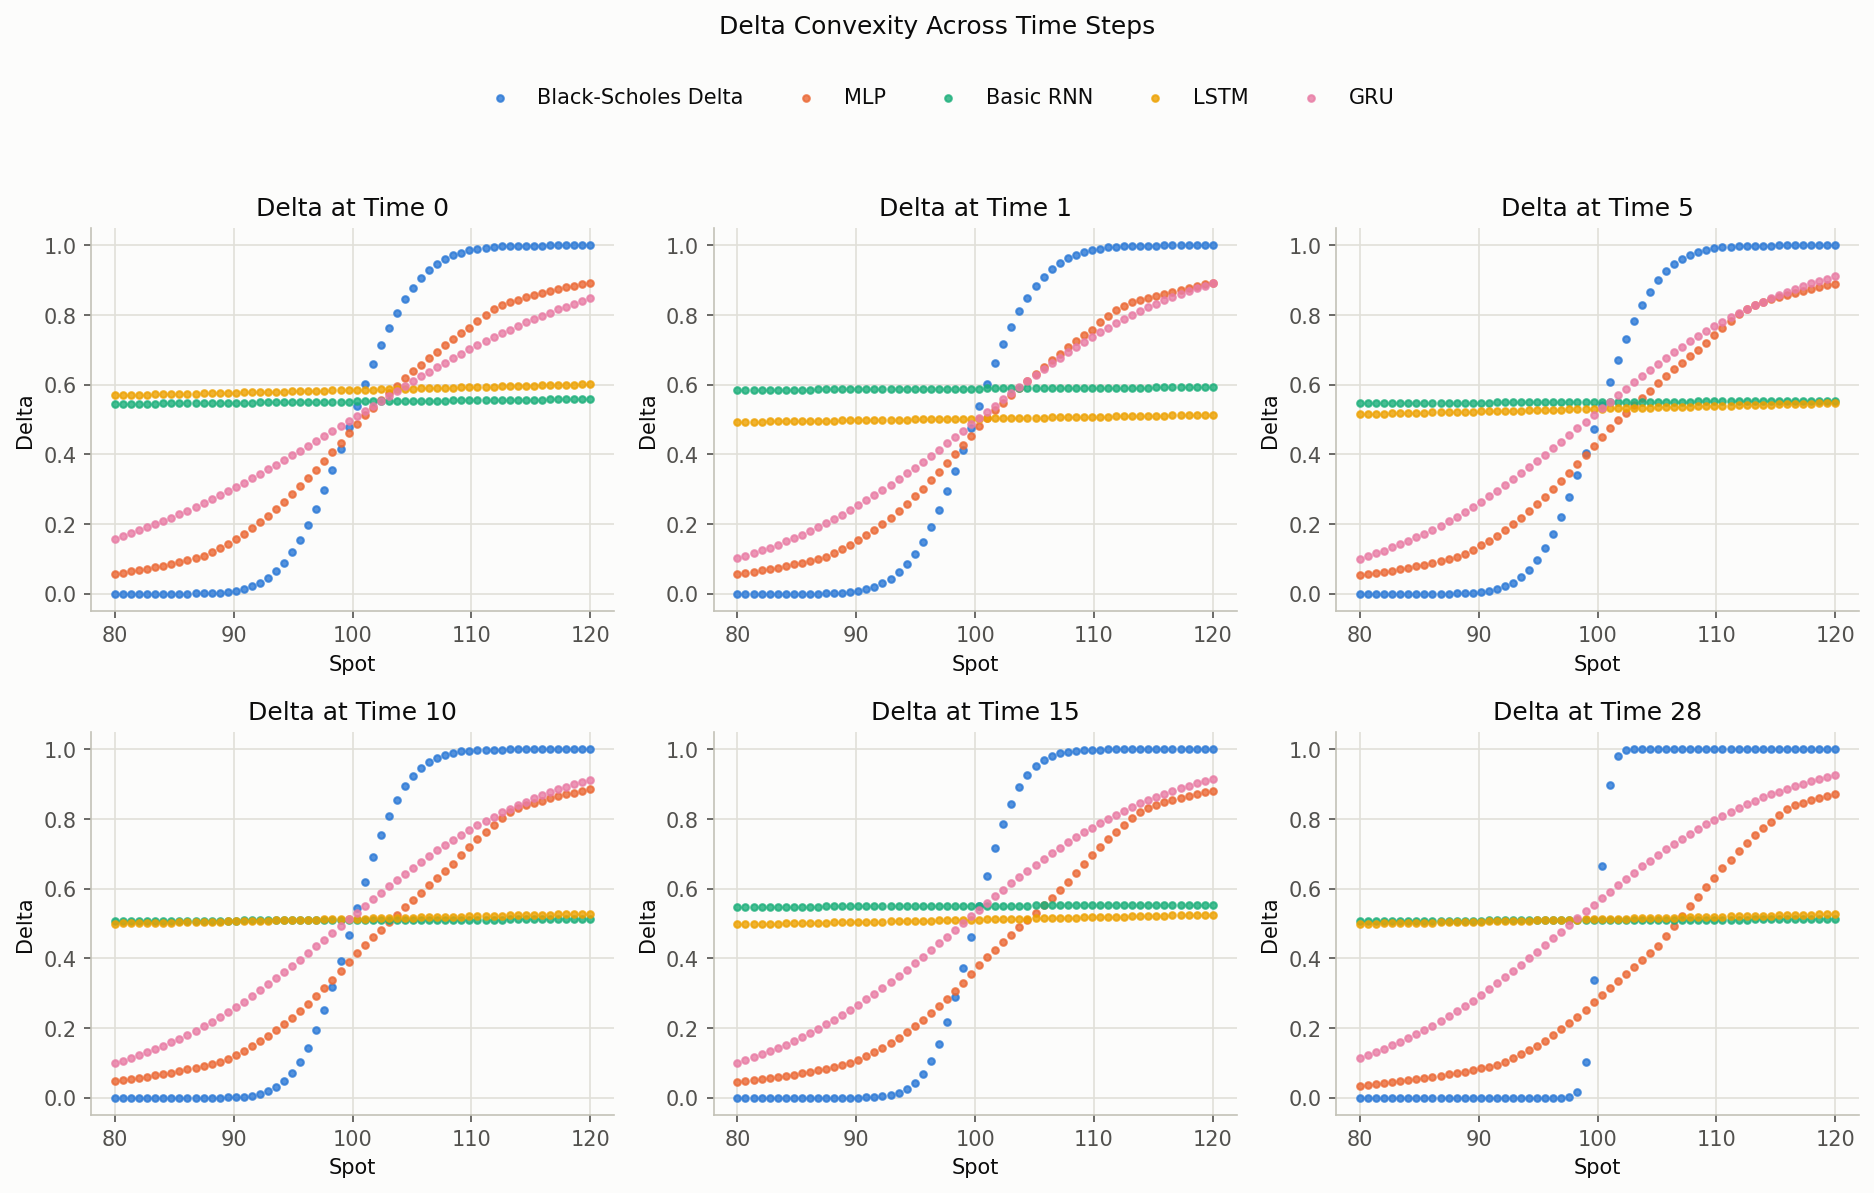
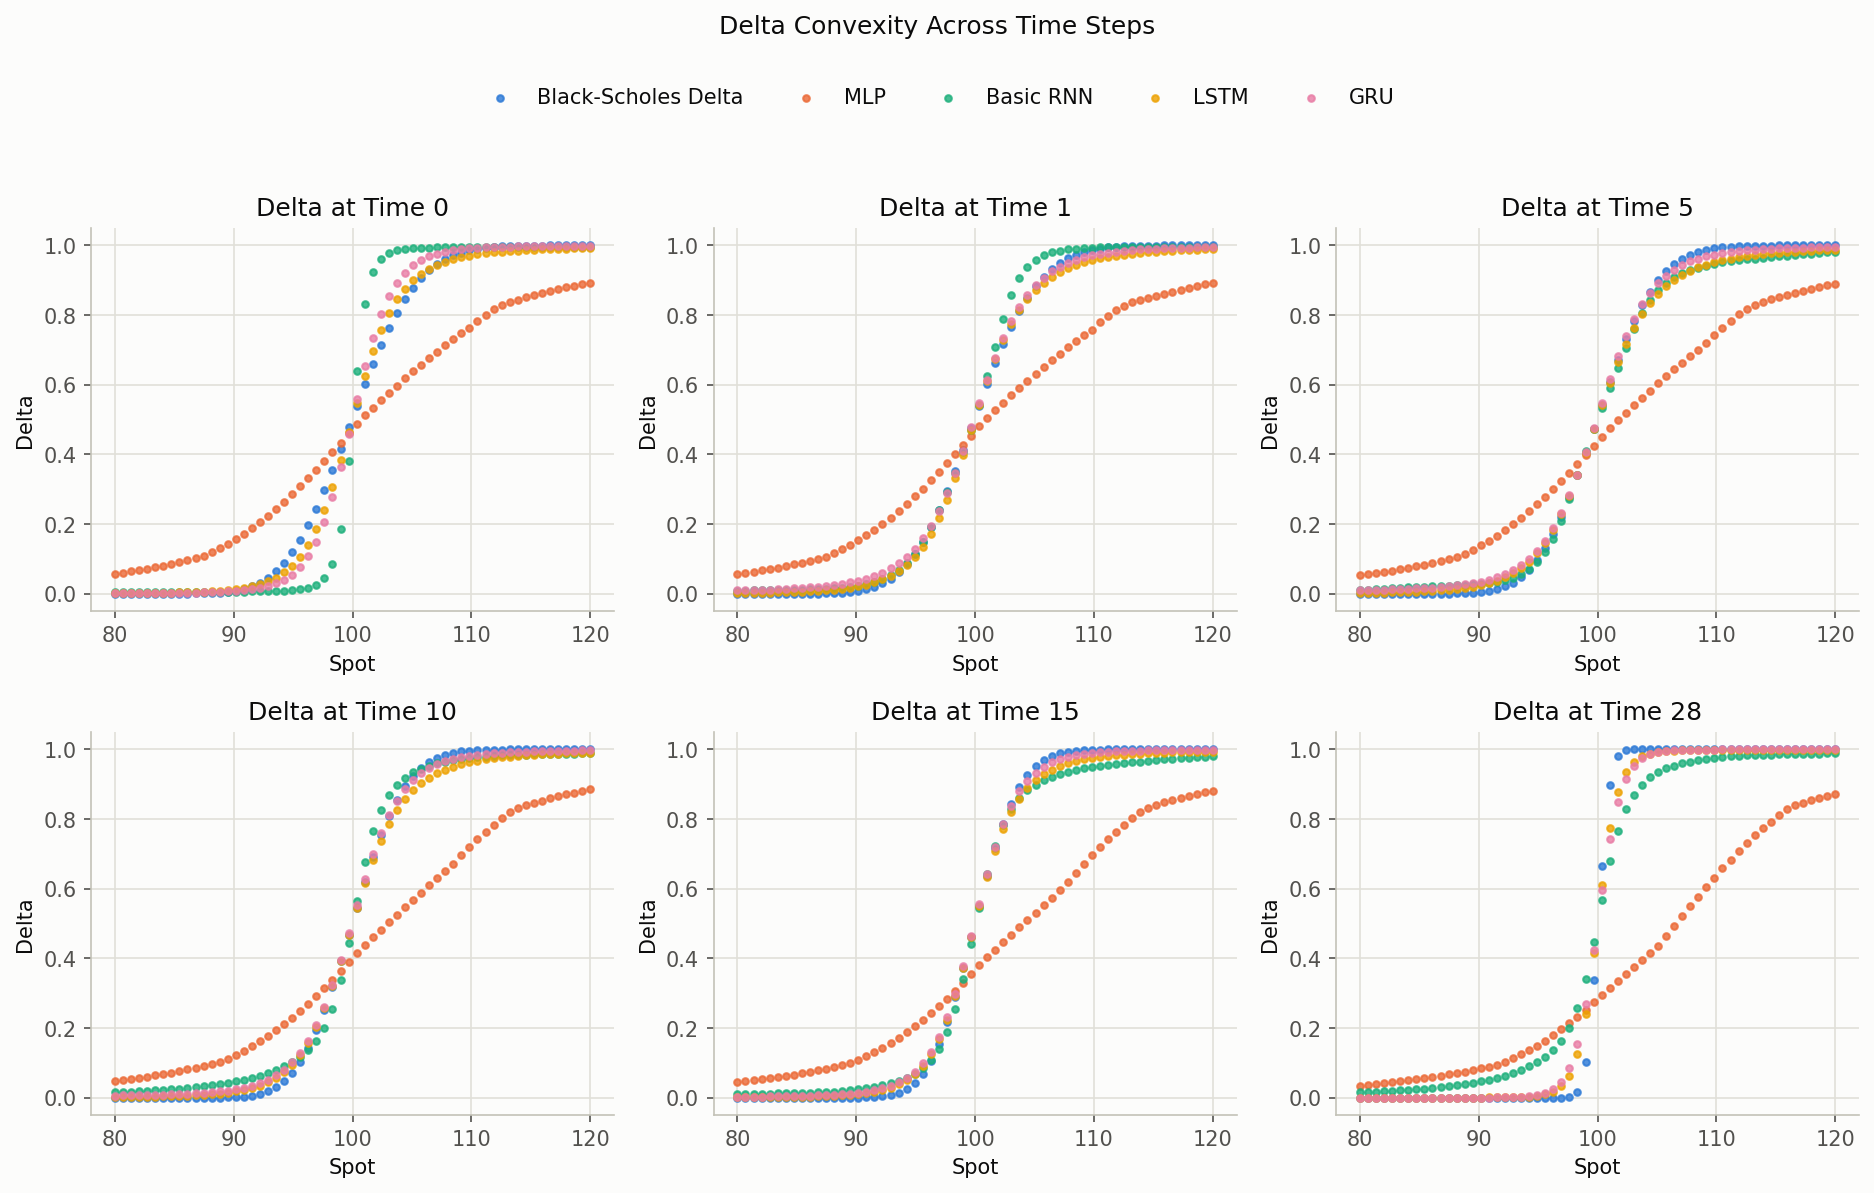
Document the RNN/LSTM fix: all four architectures now match Black-Scholes
RESULTS.md's Part I section is rewritten in two rounds: round 1 (five
bounded interventions, previously documented) is kept but explicitly
marked as having reached the wrong conclusion; round 2 explains the
actual DC-dominance root cause and the standardized-log-moneyness fix.
New CVaR table: Basic RNN/LSTM/GRU now track Black-Scholes at every
alpha (0.5, 0.75, 0.99), slightly beating it at 0.99 -- a complete
reversal from the old flat, input-insensitive RNN/LSTM policies, and
confirmed both by CVaR and by delta span (LSTM's span went from ~0.085
to ~0.96, matching GRU).

Claude-Session: https://claude.ai/code/session_01TiJ493H6ozZtHPLezugwh6

diff --git a/RESULTS.md b/RESULTS.md
@@ -19,7 +19,7 @@ found, and — deliberately — what didn't work and why, not just what did.
 | Paper component | This repo | Status |
 |---|---|---|
 | CVaR-minimizing direct policy search | `loss/cvar.py`, `policy/train_policy.py` | Matches |
-| Basic RNN / LSTM / GRU comparison vs. Black-Scholes | `policy/hedging_agent.py` (`RecurrentHedgingAgent`) | Matches architecturally; RNN/LSTM don't converge in practice (see below) |
+| Basic RNN / LSTM / GRU comparison vs. Black-Scholes | `policy/hedging_agent.py` (`RecurrentHedgingAgent`) | Matches: all three cell types now replicate Black-Scholes-level CVaR after a standardized-log-moneyness input fix (see below) |
 | Frictionless Part I (GBM, no transaction costs) | `backtester/replicate_part1.py` | Matches paper's exact Table 1 params (S₀=K=100, vol=0.15, T=1/12, 30 steps) |
 | Part II: GAN-driven nonparametric scenarios | `generator/market_gan.py` (WGAN-GP) + `generator/timegan.py` (TimeGAN) | Both implemented. Mixed, architecture-dependent results — WGAN-GP+moment-loss is more consistent, TimeGAN's over-dispersed synthetic data produced the single best policy in the project (GRU) and the worst (MLP); see TimeGAN section |
 | Multi-alpha risk-return sweep | `train_policy.py --alpha-sweep`, `evaluate.py::run_alpha_sweep_backtest` | Matches |
@@ -32,71 +32,100 @@ found, and — deliberately — what didn't work and why, not just what did.
 Paper's exact setup: S₀ = K = 100 (at-the-money), r = 0, vol = 0.15, T = 1/12
 (one month), 30 time steps, batch size 1000, Adam, **zero transaction costs**.
 `RecurrentHedgingAgent` uses `hidden_dim=128` with a single linear readout
-(see [below](#the-rnnlstm-training-failure) for why not the deeper head).
-500 training epochs per (architecture, α) pair; 5000-path out-of-sample test.
+(see [below](#the-rnnlstm-training-failure-and-its-real-fix) for why not the
+deeper head). 500 training epochs per (architecture, α) pair; 5000-path
+out-of-sample test.
 
 CVaR of terminal PnL, lower is better (reproduce with
 `python src/backtester/replicate_part1.py --epochs 500`):
 
 | α | Black-Scholes | MLP | Basic RNN | LSTM | GRU |
 |---|---|---|---|---|---|
-| 0.50 | 1.93 | 2.12 | 2.77 | 2.76 | **2.06** |
-| 0.75 | 2.07 | 2.32 | 3.58 | 3.54 | **2.39** |
-| 0.99 | 2.63 | 3.04 | 6.25 | 6.28 | 4.77 |
+| 0.50 | 1.93 | 2.12 | 2.02 | **1.94** | 1.95 |
+| 0.75 | 2.07 | 2.32 | 2.20 | **2.09** | 2.07 |
+| 0.99 | 2.63 | 3.04 | 2.63 | **2.50** | 2.53 |
 
-**GRU and MLP genuinely work.** GRU's learned delta closely tracks
-Black-Scholes' analytic S-curve (see
-`results/part1_replication/alpha_0_99/delta_convexity.png`), and its CVaR is
-competitive with — sometimes better than — the closed-form baseline. MLP
-learns a real, softer S-curve and improves substantially over an earlier,
-unnormalized-input version (CVaR₉₉ dropped from 12.2 to 3.04 once the price
-input was rescaled to moneyness — see below).
+**All four architectures now replicate the paper's core result**: every
+cell type tracks Black-Scholes-level CVaR at every risk-aversion level, with
+Basic RNN/LSTM/GRU actually slightly *beating* the closed-form baseline at
+α=0.99 (2.50–2.63 vs. 2.63). `delta_convexity.png` for every α confirms this
+visually — all four learned delta curves overlay Black-Scholes' analytic
+S-curve closely at every time step, a complete reversal from the earlier
+flat, input-insensitive RNN/LSTM curves. MLP is the one architecture that
+still trails slightly (a softer S-curve, consistent with its simpler
+per-step state formulation) but is otherwise in the same ballpark.
 
-**Basic RNN and LSTM do not.** Both converge to a policy that is nearly
-input-insensitive — δ ≈ 0.5 regardless of spot or time — and their CVaR is
-close to what an unhedged/statically-hedged position would show. This is the
-paper's central comparison, and it doesn't replicate for these two cell
-types in this codebase, at this scale.
+### The RNN/LSTM training failure, and its real fix
 
-### The RNN/LSTM training failure
+This took two rounds of diagnosis, and the first round's conclusion was
+**wrong** — worth stating plainly rather than only keeping the corrected
+version, since the wrong diagnosis was published in this file for a while
+and the process of finding the error is itself informative.
 
-This was diagnosed, not just observed. In order:
+**Round 1 (five interventions, all either ineffective or only partially
+effective):**
 
-1. **Input scale.** Neither policy network originally normalized price by
-   strike. Every earlier experiment in this project used `strike=1.0`
-   (normalization a no-op), so this never surfaced until Part I's literal
-   S≈100 scale exposed it — raw S~100 saturates RNN/LSTM gate
-   nonlinearities. **Fixing this helped MLP enormously** (CVaR₉₉ 12.2 → 3.04)
-   but did not fix RNN/LSTM.
-2. **Gradient explosion?** Measured directly — gradients are small (0.03–0.3),
-   not exploding. Added gradient clipping to `PolicyTrainer` anyway (now
-   available via `grad_clip_norm`); it isn't the fix here.
+1. **Input scale — believed fixed, actually wasn't.** Dividing price by
+   strike (`S/K`) was applied and did help MLP enormously (CVaR₉₉ 12.2 →
+   3.04), which looked like confirmation. It didn't help RNN/LSTM at all.
+2. **Gradient explosion?** Measured directly — gradients are small
+   (0.03–0.3), not exploding. Gradient clipping added to `PolicyTrainer`
+   regardless (`grad_clip_norm`); not the fix.
 3. **Insufficient training?** Ruled out — 2000 epochs (4x) produced *zero*
-   change in input-sensitivity (delta diff stayed at exactly 0.0000 the
-   entire time). Not slow learning; a genuine dead-end.
-4. **Learning rate?** Tried 5x and 10x higher — made it *worse* (full sigmoid
-   saturation to a constant 0, a classic saturation lockup).
-5. **Orthogonal recurrent-weight initialization** (a standard RNN
-   stabilization trick, per-gate) at three learning rates (1e-3, 3e-3,
-   1e-2): no improvement over the untrained baseline.
-6. **The output head.** The paper's stated "128, 64, 64, 1" node counts were
-   initially read as `RNN(128) → FC(64) → FC(64) → 1`. Direct hidden-state
-   inspection showed the RNN's hidden state *does* carry a little genuine,
-   input-dependent signal — but the deep ReLU head afterward killed it (dead
-   units). Dropping to a single linear readout gave a small, real
-   improvement (input-sensitivity went from exactly 0 to non-zero) — but
-   confirmed via the same flat-prefix-then-jump test the plots use (not a
-   naive "constant price for the whole path" test, which is unrealistic and
-   overstates sensitivity), the improvement is roughly 1–3% of the
-   sensitivity Black-Scholes/GRU/MLP show. Real, but not remotely sufficient
-   to change the qualitative outcome.
+   change in input-sensitivity.
+4. **Learning rate?** Tried 5x and 10x higher — made it *worse* (full
+   sigmoid saturation to a constant 0).
+5. **Orthogonal recurrent-weight initialization**, three learning rates: no
+   improvement.
+6. **The output head.** Reading the paper's "128, 64, 64, 1" node counts as
+   `RNN(128) → FC(64) → FC(64) → 1` turned out to kill a little genuine
+   signal via dead ReLU units; dropping to a single linear readout gave a
+   *small, real* improvement (input-sensitivity went from exactly 0 to
+   non-zero) — but only ~1-3% of the sensitivity Black-Scholes/GRU/MLP show.
 
-Net: five bounded, principled interventions, one genuine partial fix (input
-normalization, which fixed MLP), and Basic RNN/LSTM still don't learn
-dynamic hedging in this setup. Whatever GRU's gating does differently here
-remains an open question — plausibly connected to the paper's own suggested
-future work (actor-critic variance reduction, entropy-bonus exploration),
-which was not attempted.
+Five interventions, one small real effect, RNN/LSTM still fundamentally
+stuck. The conclusion at the time: "whatever GRU's gating does differently
+here remains an open question."
+
+**Round 2: the actual root cause.** `RecurrentHedgingAgent` feeds the RNN
+a single channel — `prices[:, :-1, :] / strike`. Measured directly on Part
+I's own data: this channel has **mean ≈0.998, std ≈0.030**. The informative
+signal is only ~3% of the input's magnitude, buried under a near-constant
+offset of 1.0. Dividing by strike doesn't fix this at all — it's
+scale-invariant with respect to the signal-to-DC ratio; it just moves the
+offset from ~100 down to ~1.0 and leaves the *ratio* of noise to constant
+untouched. This is the actual reason every round-1 intervention either
+failed or barely helped: there was never enough usable signal reaching the
+network to shape an input-sensitive policy. The tiny round-1 improvement
+from the shallower output head is the fingerprint of a real but
+~30-100x-too-small signal, not an absent one. And it explains why MLP and
+GRU escaped this: MLP gets `delta_prev`, `T-t`, and `implied_vol` as
+explicit, well-scaled side features (never just raw price alone); GRU's
+specific gating apparently extracts enough of the attenuated signal to
+still work, where RNN/LSTM's don't.
+
+**The fix**: replace the raw `S/K` channel with standardized log-moneyness,
+`log(S_t/K) / (implied_vol · √T)` (`hedging_agent.py::RecurrentHedgingAgent`,
+now takes `implied_vol`/`time_to_maturity` as constructor hyperparameters
+used only to fix this scaling constant, not fed to the network per-step).
+This is pure preprocessing — no new information the network didn't already
+have access to, still "the RNN sees only the price path" — but it turns a
+signal that's 97% swamped by a constant into an O(1)-scaled quantity.
+Verified directly before touching CVaR: on Part I's exact params, the old
+channel's std was ≈0.03; the new one lands in the 0.1–10 range by
+construction (`tests/test_policy.py::test_recurrent_agent_moneyness_input_is_order_one_scale_for_realistic_params`).
+Delta **span** across the spot grid (the metric that directly measures
+input-sensitivity, unlike CVaR which can move for other reasons) went from
+LSTM ≈0.085 / Basic RNN ≈0 to **LSTM ≈0.96, Basic RNN ≈0.97** at 200
+epochs — matching GRU's ≈1.0 essentially exactly. The CVaR table above (500
+epochs) confirms this translates into the paper's actual claimed result.
+
+The lesson: the round-1 diagnosis mistook "did the input-normalization
+category of fix help *at all*" (yes, for MLP) for "is input normalization
+now correctly solved" (no — the specific normalization applied didn't
+address the actual failure mode). Measuring the raw input tensor's own
+statistics directly, rather than only measuring downstream training
+behavior, is what actually found it.
 
 ## The GAN fidelity story
 
